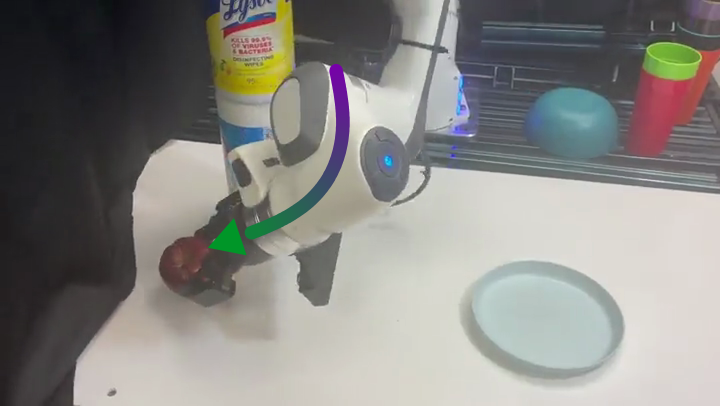
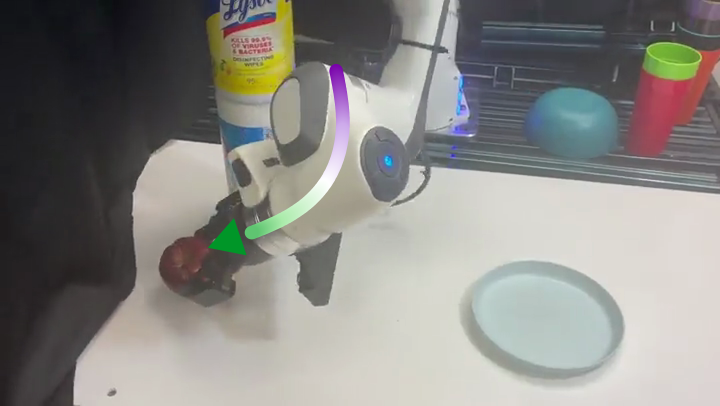
CS-Pi purple-white-green gradient; purple borders on projection-after and CS-Pi 1/2

Changed region(s): [[0.3361, 0.1773, 0.4889, 0.5911]]

diff --git a/assets/hardware/frames/render_trajectories.py b/assets/hardware/frames/render_trajectories.py
@@ -10,16 +10,25 @@ def rgb(r, g, b):
     return np.array([b, g, r], float)   # stored as BGR for OpenCV
 
 
-# (start colour, end colour) by output filename prefix; the end colour is the current position
+PURPLE, LPURPLE = rgb(120, 0, 170), rgb(205, 170, 235)
+GREEN, LGREEN = rgb(0, 150, 40), rgb(170, 235, 170)
+# gradient stops (start ... current position) by output filename prefix
 SCHEMES = {
-    "2_": (rgb(255, 175, 175), rgb(215, 0, 0)),     # gradient guidance: light red -> red
-    "3_": (rgb(205, 170, 235), rgb(120, 0, 170)),   # projection: light purple -> purple
-    "7_": (rgb(205, 170, 235), rgb(120, 0, 170)),
-    "6_": (rgb(170, 235, 170), rgb(0, 150, 40)),    # rejection: light green -> green
-    "8_": (rgb(120, 0, 170), rgb(0, 150, 40)),      # CS-Pi: purple -> green
-    "5_": (rgb(120, 0, 170), rgb(0, 150, 40)),
+    "2_": [rgb(255, 175, 175), rgb(215, 0, 0)],            # gradient guidance: light red -> red
+    "3_": [LPURPLE, PURPLE],                               # projection: light purple -> purple
+    "7_": [LPURPLE, PURPLE],
+    "6_": [LGREEN, GREEN],                                 # rejection: light green -> green
+    "8_": [PURPLE, LPURPLE, rgb(255, 255, 255), LGREEN, GREEN],  # CS-Pi: purple -> white -> green
+    "5_": [PURPLE, LPURPLE, rgb(255, 255, 255), LGREEN, GREEN],
 }
-A, B = SCHEMES["2_"]
+# figures that get an outline around the arrow
+BORDER = {"3_projection_failure.png": PURPLE, "8_cspi_1.png": PURPLE, "8_cspi_2.png": PURPLE}
+
+
+def grad(stops, t):
+    x = t * (len(stops) - 1)
+    i = min(int(x), len(stops) - 2)
+    return stops[i] + (stops[i + 1] - stops[i]) * (x - i)
 
 
 def catmull(p, n=40):
@@ -54,26 +63,35 @@ def smooth(p, frac=0.12, n=400):
     return out
 
 
-def draw_arrow(img, pts, W=13, A=A, B=B):
+def draw_arrow(img, pts, W=13, stops=SCHEMES["2_"], border=None, bw=3.0):
     s = smooth(pts) * SS
     W *= SS
     L = np.r_[0, np.cumsum(np.hypot(*np.diff(s, axis=0).T))]
     tot = L[-1]
     head = min(W * 2.6, tot * 0.4)
-    for i in range(1, len(s)):
-        if L[i] > tot - head + 1:
-            break
-        c = A + (B - A) * (L[i] / tot)
-        cv2.line(img, tuple(s[i-1].astype(int)), tuple(s[i].astype(int)),
-                 tuple(int(v) for v in c), int(W), cv2.LINE_AA)
     e = s[-1]
     far = s[np.hypot(*(s - e).T) > head * 0.6]
     q = far[-1] if len(far) else s[0]
     d = (e - q) / (np.hypot(*(e - q)) + 1e-9)
     n = np.array([-d[1], d[0]])
     tri = np.array([e + d * head * .35, e - d * head * .65 + n * W * 1.5,
-                    e - d * head * .65 - n * W * 1.5]).astype(np.int32)
-    cv2.fillConvexPoly(img, tri, tuple(int(v) for v in B), cv2.LINE_AA)
+                    e - d * head * .65 - n * W * 1.5])
+    body = [i for i in range(1, len(s)) if L[i] <= tot - head + 1]
+
+    if border is not None:      # outline pass underneath the fill
+        B2 = int(bw * W / 13 * 2)
+        for i in body:
+            cv2.line(img, tuple(s[i-1].astype(int)), tuple(s[i].astype(int)),
+                     tuple(int(v) for v in border), int(W) + B2, cv2.LINE_AA)
+            cv2.circle(img, tuple(s[i].astype(int)), (int(W) + B2) // 2, tuple(int(v) for v in border), -1, cv2.LINE_AA)
+        cv2.fillConvexPoly(img, tri.astype(np.int32), tuple(int(v) for v in border), cv2.LINE_AA)
+        cv2.polylines(img, [tri.astype(np.int32)], True, tuple(int(v) for v in border), B2, cv2.LINE_AA)
+
+    for i in body:
+        c = grad(stops, L[i] / tot)
+        cv2.line(img, tuple(s[i-1].astype(int)), tuple(s[i].astype(int)),
+                 tuple(int(v) for v in c), int(W), cv2.LINE_AA)
+    cv2.fillConvexPoly(img, tri.astype(np.int32), tuple(int(v) for v in stops[-1]), cv2.LINE_AA)
 
 
 def main():
@@ -87,8 +105,9 @@ def main():
             continue
         im = cv2.imread(base)
         big = cv2.resize(im, None, fx=SS, fy=SS, interpolation=cv2.INTER_CUBIC)
-        A_, B_ = next((v for k, v in SCHEMES.items() if name.startswith(k)), (A, B))
-        draw_arrow(big, pts, W=13 * im.shape[1] / 720, A=A_, B=B_)
+        stops = next((v for k, v in SCHEMES.items() if name.startswith(k)), SCHEMES["2_"])
+        draw_arrow(big, pts, W=13 * im.shape[1] / 720, stops=stops, border=BORDER.get(name),
+                   bw=3.0 * im.shape[1] / 720)
         cv2.imwrite(os.path.join(out, name),
                     cv2.resize(big, (im.shape[1], im.shape[0]), interpolation=cv2.INTER_AREA))
         print("wrote", os.path.join(out, name))
